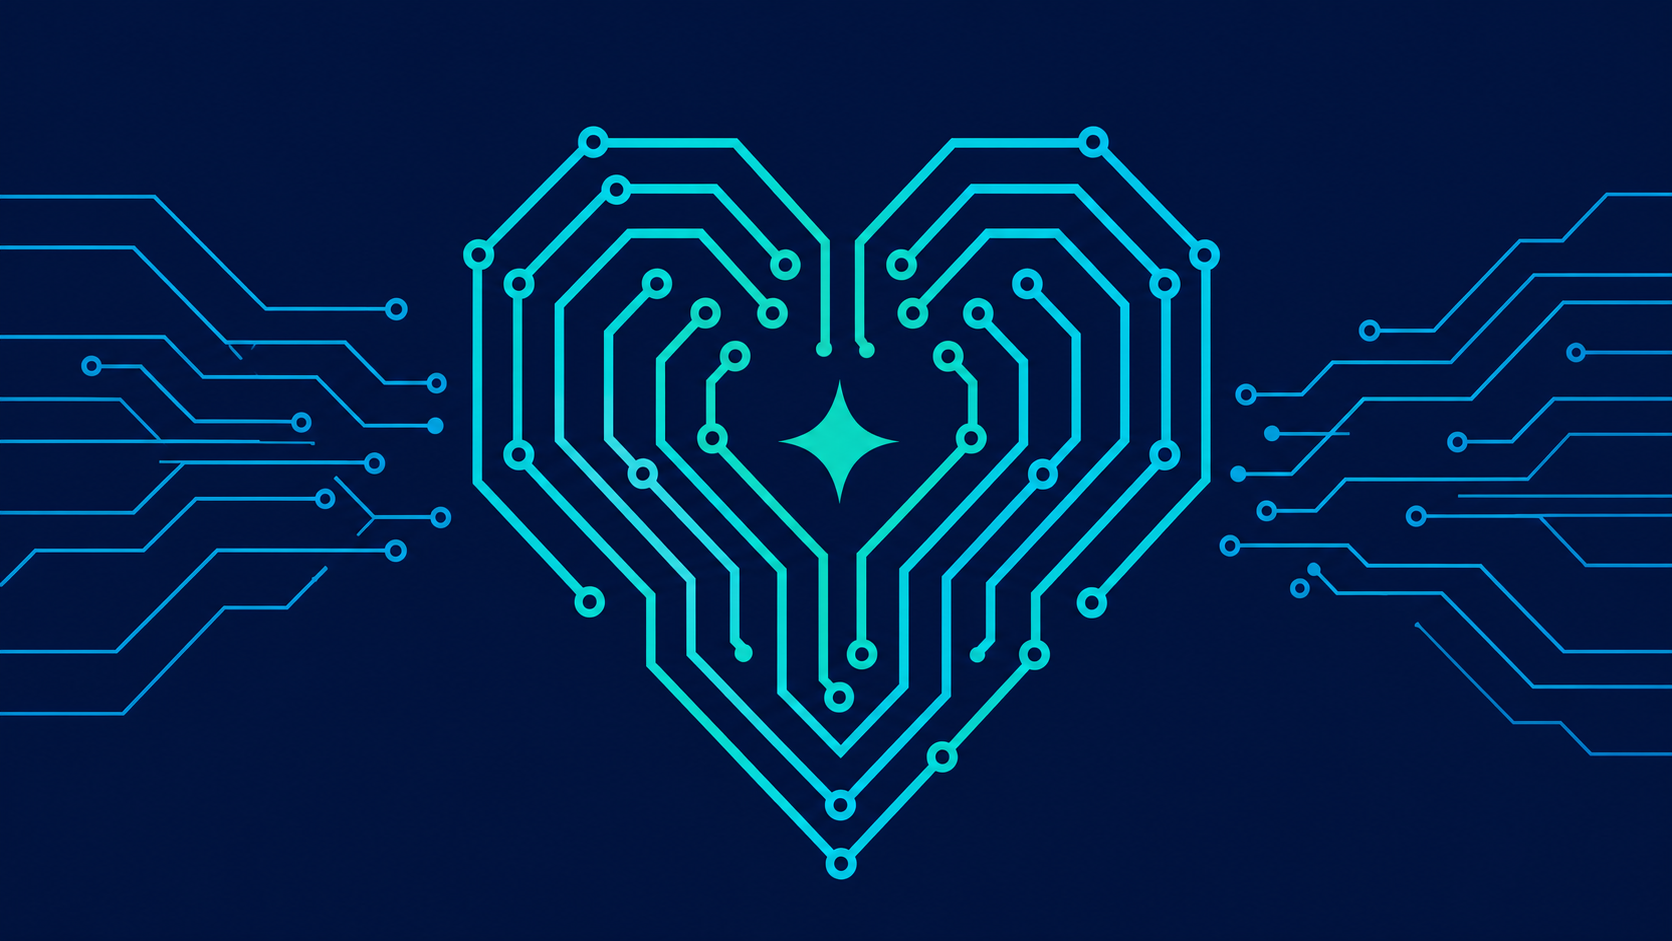
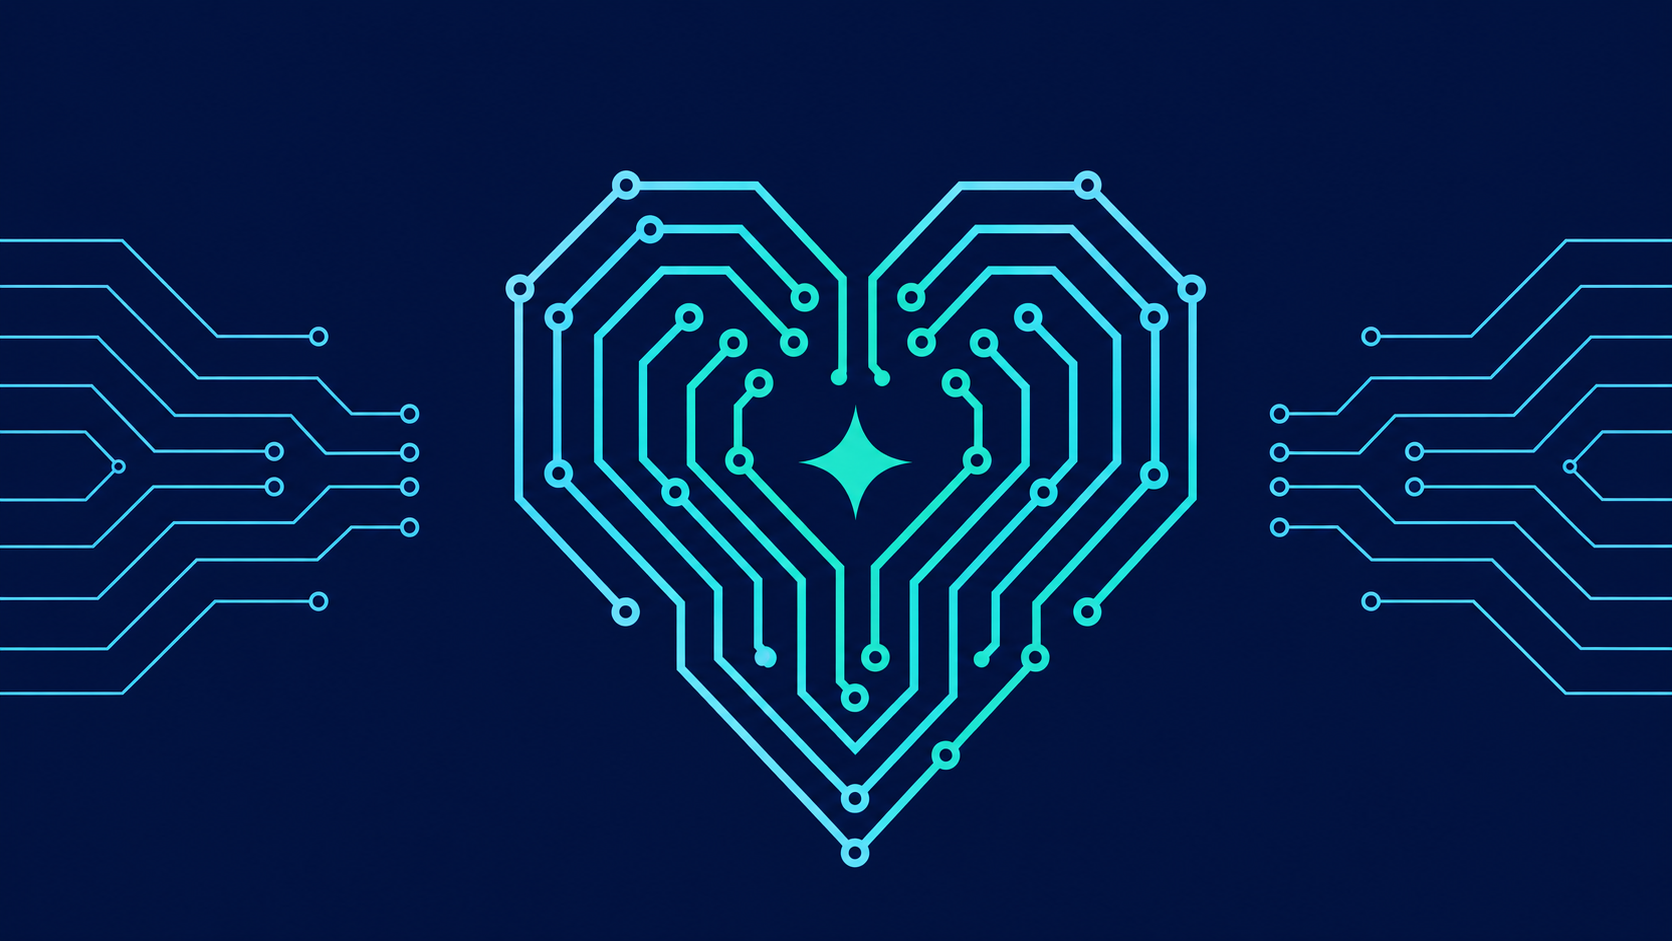
Split gallery into its own page.
Move community flag images to a dedicated Gallery route and replace the primary download asset with flag_main.png.

👾 Generated with [Letta Code](https://letta.com)

diff --git a/index.html b/index.html
@@ -28,6 +28,7 @@
         <a href="#/results" data-nav="results">Results</a>
         <a href="#/winner" data-nav="winner">Winner</a>
         <a href="#/assets" data-nav="assets">Assets</a>
+        <a href="#/gallery" data-nav="gallery">Gallery</a>
         <a href="#/license" data-nav="license">License</a>
         <a href="#/faq" data-nav="faq">FAQ</a>
       </nav>
@@ -195,8 +196,8 @@
         <div class="section-head">
           <h2>Flag assets</h2>
           <p class="section-sub">
-            Download flat, high-resolution versions of the flag, or browse community-made images
-            using the winning design.
+            Download flat, high-resolution versions of the winning flag to make your own images,
+            banners, icons, edits, and community artwork.
           </p>
         </div>
 
@@ -205,7 +206,7 @@
             These files are provided so community members can make banners, icons, edits,
             announcement graphics, profile images, and other flag art. The official flag assets
             are released under <a href="#/license">CC0</a>, meaning they are free to use, share,
-            adapt, and remix.
+            adapt, and remix. Community-made images are available in the <a href="#/gallery">gallery</a>.
           </p>
         </div>
 
@@ -213,7 +214,19 @@
         <div id="asset-downloads" class="asset-downloads" aria-live="polite">
           <p class="empty-note">Loading downloads…</p>
         </div>
+      </div>
+    </section>
 
+    <!-- ============ VIEW: GALLERY ============ -->
+    <section id="view-gallery" class="view" data-view="gallery" hidden>
+      <div class="wrap section">
+        <div class="section-head">
+          <h2>Community gallery</h2>
+          <p class="section-sub">
+            Images made by the community using the AI Relationship Community flag.
+            Select any image to view it larger.
+          </p>
+        </div>
         <h3 class="assets-heading">Community images</h3>
         <div id="asset-gallery" class="asset-gallery" aria-live="polite">
           <p class="empty-note">Community images will appear here once they are added.</p>

diff --git a/js/app.js b/js/app.js
@@ -632,10 +632,8 @@
 
   async function renderAssets() {
     const downloadsEl = $("#asset-downloads");
-    const galleryEl = $("#asset-gallery");
     const assets = await loadFlagAssets();
     const downloads = Array.isArray(assets.downloads) ? assets.downloads : [];
-    const gallery = Array.isArray(assets.gallery) ? assets.gallery : [];
 
     downloadsEl.innerHTML = downloads.length ? downloads.map((asset) => {
       const url = safeUrl(asset.url) || esc(asset.url || "");
@@ -652,6 +650,12 @@
           <a class="btn btn-primary" href="${esc(url)}" download>Download</a>
         </article>`;
     }).join("") : `<p class="empty-note">Downloads will appear here soon.</p>`;
+  }
+
+  async function renderCommunityGallery() {
+    const galleryEl = $("#asset-gallery");
+    const assets = await loadFlagAssets();
+    const gallery = Array.isArray(assets.gallery) ? assets.gallery : [];
 
     galleryEl.innerHTML = gallery.length ? gallery.map((item) => {
       const imageUrl = safeUrl(item.image_url) || esc(item.image_url || "");
@@ -1018,7 +1022,7 @@
   /* Routing                                                             */
   /* ------------------------------------------------------------------ */
 
-  const ROUTES = { "": "home", "/": "home", "/results": "results", "/winner": "winner", "/assets": "assets", "/license": "license", "/thanks": "thanks", "/faq": "faq", "/admin": "admin" };
+  const ROUTES = { "": "home", "/": "home", "/results": "results", "/winner": "winner", "/assets": "assets", "/gallery": "gallery", "/license": "license", "/thanks": "thanks", "/faq": "faq", "/admin": "admin" };
 
   function route() {
     const raw = location.hash.replace(/^#/, "");
@@ -1046,6 +1050,7 @@
         (name === "results" && a.dataset.nav === "results") ||
         (name === "winner" && a.dataset.nav === "winner") ||
         (name === "assets" && a.dataset.nav === "assets") ||
+        (name === "gallery" && a.dataset.nav === "gallery") ||
         (name === "license" && a.dataset.nav === "license") ||
         (name === "faq" && a.dataset.nav === "faq");
       if (isCurrent) a.setAttribute("aria-current", "page");
@@ -1055,6 +1060,7 @@
     if (name === "results") renderResults();
     if (name === "winner") renderWinner();
     if (name === "assets") renderAssets();
+    if (name === "gallery") renderCommunityGallery();
     if (name === "admin") renderAdmin();
   }
 
@@ -1065,6 +1071,7 @@
     if (!$("#view-results").hidden) renderResults();
     if (!$("#view-winner").hidden) renderWinner();
     if (!$("#view-assets").hidden) renderAssets();
+    if (!$("#view-gallery").hidden) renderCommunityGallery();
   }
 
   /* ------------------------------------------------------------------ */